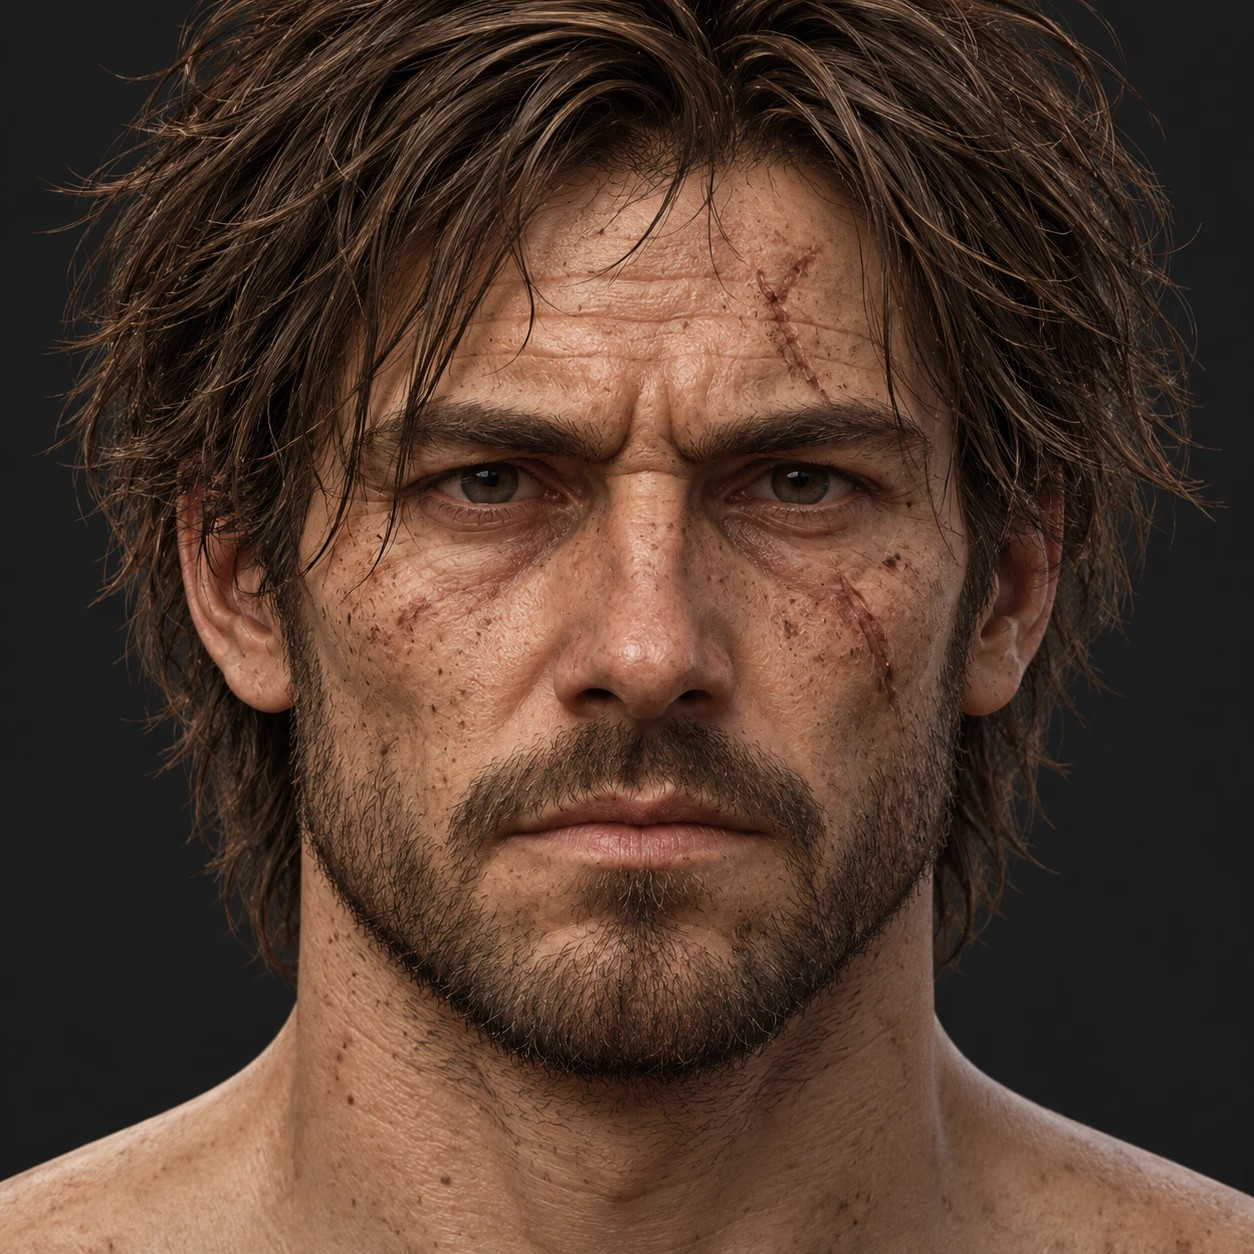
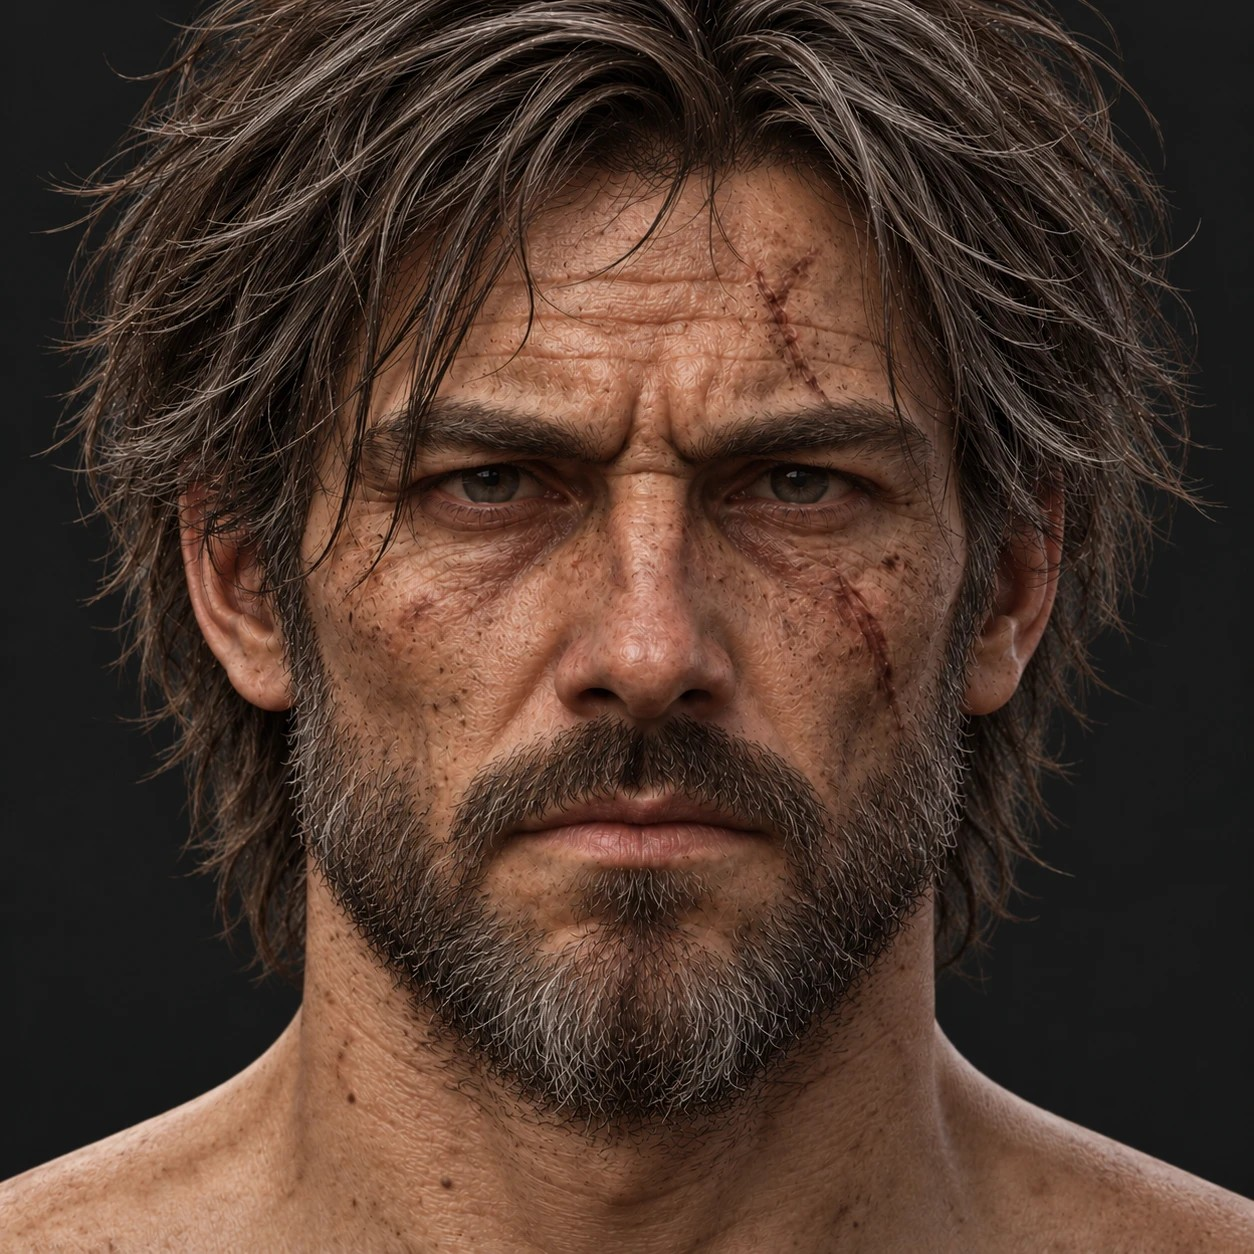
docs(koncepty): twarz bohatera v2 z siwizną; wymagania nadrzędne wobec konceptów
Decyzja autora: plan, brief, kontrakt i zapisane decyzje mają
pierwszeństwo przed ilustracją koncepcyjną.

Claude-Session: https://claude.ai/code/session_013vmqD8hS6Szq3Ejor7C79C

diff --git a/docs/koncepty/19-bohater-twarz.md b/docs/koncepty/19-bohater-twarz.md
@@ -2,19 +2,20 @@
 
 ![Twarz bohatera](19-bohater-twarz.jpg)
 
-**Status:** referencja wyglądu twarzy od grafika, przekazana przez autora 27 października 2026 r. Punkt odniesienia dla rzeźby głowy i tekstury skóry bohatera; nie jest renderem z gry ani teksturą.
+**Status:** referencja wyglądu twarzy od grafika, przekazana przez autora 27 października 2026 r.; wersja 2 — grafik dopasował ją do zapisanych wymagań (siwizna). Pierwsza wersja jest w historii Git. Punkt odniesienia dla rzeźby głowy i tekstury skóry bohatera; nie jest renderem z gry ani teksturą.
 
 ## Co pokazuje
 
 - **Twarz** dojrzałego, zmęczonego drogą mężczyzny: ciężkie łuki brwiowe, zmarszczka gniewna między brwiami, głębokie poziome bruzdy czoła (nieregularne, przerywane), kurze łapki, worki i cienie pod oczami, bruzdy nosowo-wargowe.
 - **Skóra** ogorzała, ciepła, czerwonawa na nosie i policzkach; liczne piegi i plamki słoneczne na czole, policzkach i szyi; widoczne pory.
 - **Blizny:** świeżo zagojone, **różowoczerwone, nierówne, lekko wypukłe** — skośna blizna przez czoło nad lewą brwią postaci (z krzyżującym się krótszym cięciem) i skośna blizna na lewym policzku pod okiem; drobniejsze zadrapania na prawym policzku. Nie są wgłębieniami w skórze.
-- **Zarost:** gęsty, kilkudniowy do krótkiej brody, ciemnobrązowy, z wąsem; linia na policzkach nieregularna, schodzi na szyję stopniowo.
+- **Zarost:** gęsty, kilkudniowy do krótkiej brody, ciemnobrązowy **z siwizną** (wyraźnie siwy na podbródku), z wąsem; linia na policzkach nieregularna, schodzi na szyję stopniowo.
 - **Oczy:** szarozielone (szaroorzechowe), głęboko osadzone pod ciężkimi brwiami.
-- **Włosy:** ciemnobrązowe, **średniej długości** (do linii żuchwy), potargane, pasma opadają na czoło i uszy.
+- **Włosy:** ciemnobrązowe, **przyprószone siwizną**, **średniej długości** (do linii żuchwy), potargane, pasma opadają na czoło i uszy.
 
 ## Uwagi dla wykonawców
 
 - Twarz z tego konceptu ma pierwszeństwo przed twarzą z planszy [17](17-bohater-i-woz.md) przy rzeźbie głowy i teksturze skóry; strój nadal według planszy 17.
-- **Decyzja autora (27.10.2026):** z konceptu bierzemy **długość włosów** (średnia, do linii żuchwy); włosy i zarost zostają **przyprószone siwizną**, choć koncept jej nie pokazuje. Szczegóły w [planie naprawy](../art/characters/PLAN-NAPRAWY-BOHATERA.md).
+- **Decyzja autora (27.10.2026):** z konceptu bierzemy **długość włosów** (średnia, do linii żuchwy); włosy i zarost **przyprószone siwizną** — wersja 2 konceptu już to pokazuje. Szczegóły w [planie naprawy](../art/characters/PLAN-NAPRAWY-BOHATERA.md).
+- **Wymagania z dokumentacji mają pierwszeństwo** przed tym obrazem (zob. [bibliotekę szkiców](README.md), „Jak korzystać z referencji”).
 - Koncept wygenerowano jako obraz; nie zawiera warstw, modelu ani źródeł renderu. Sprite'y produkujemy zgodnie z [kontraktem renderu](../art/KONTRAKT-RENDERU.md).

diff --git a/docs/koncepty/README.md b/docs/koncepty/README.md
@@ -47,6 +47,7 @@ Makiety pokazują docelowy nastrój: ciemna, mokra ziemia, ciepłe punktowe świ
 ## Jak korzystać z referencji
 
 - Zachowuj czytelne sylwetki i rekwizyty zgodne z zatwierdzonymi kartami bestiariusza.
+- **[DECYZJA AUTORA, 27.10.2026] Zapisane wymagania są nadrzędne wobec konceptów:** plan, brief, kontrakt renderu i zapisane decyzje autora mają pierwszeństwo przed ilustracją. Koncept służy do wyglądu i nastroju tam, gdzie wymagania milczą.
 - Przy sprzeczności między ilustracją a fabułą lub opisem postaci zgłoś ją autorowi; nie ustanawiaj samodzielnie kanonu.
 - Obrazy 12–16 pokazują klimat, perspektywę i gęstość świata; nie są potwierdzonym rozmieszczeniem przeszkód ani zdefiniowaną geometrią.
 - Nie kopiuj całego tła ze szkicu jako części sprite'a pojedynczej postaci.
